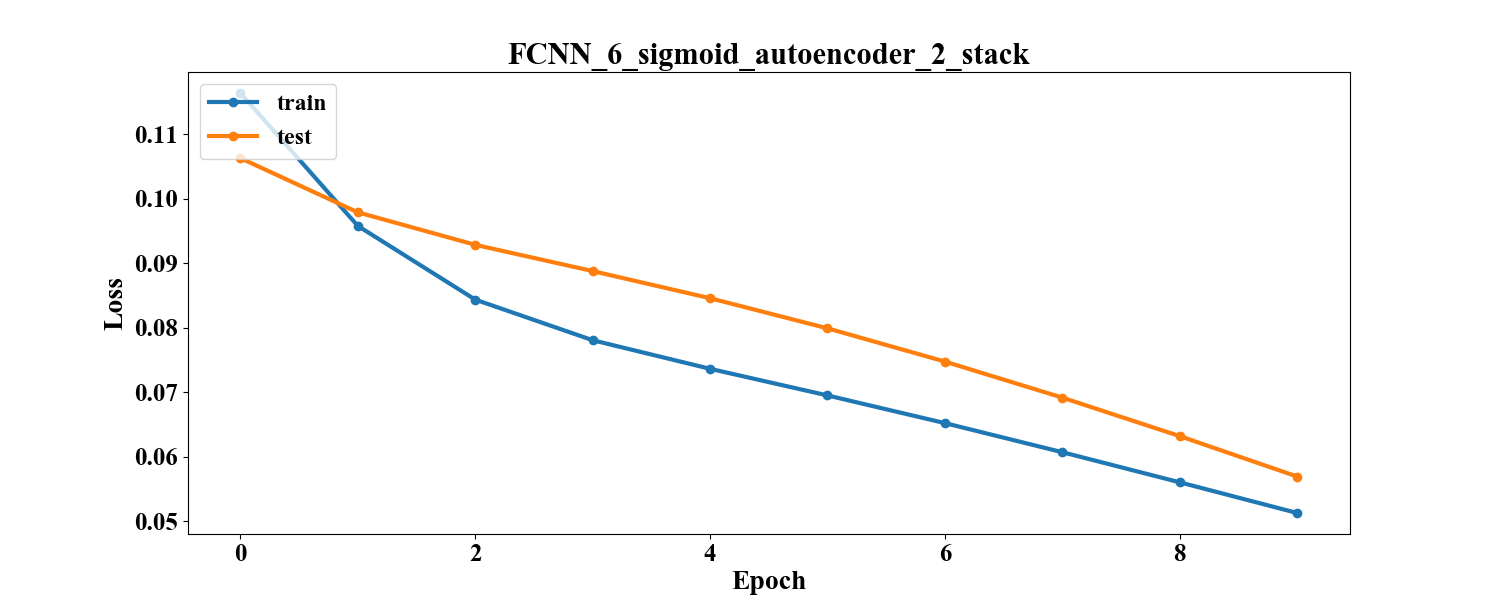
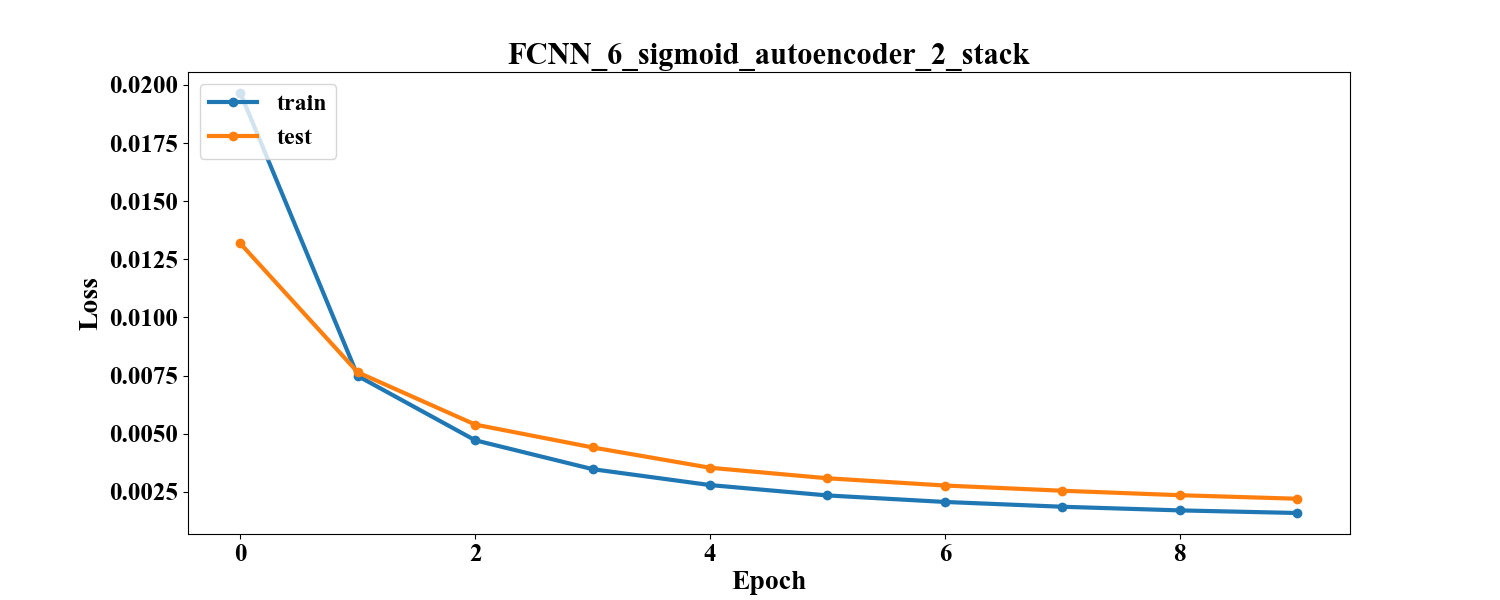
Add lab4 results

diff --git a/lab4/src/notebook.py b/lab4/src/notebook.py
@@ -174,12 +174,12 @@ def main():
     #run_experiment_autoencoder_CNN()
 
 
-    #print('\tFCNN\n')
-    #run_experiment_deep_autoencoder_FCNN()
-    #print('\tFCNN with regularization_parameter\n')
-    #run_experiment_deep_autoencoder_FCNN(regularization_parameter=0.0001)
-    #print('\tCNN\n')
-    #run_experiment_deep_autoencoder_CNN()
+    print('\tFCNN\n')
+    run_experiment_deep_autoencoder_FCNN()
+    print('\tFCNN with regularization_parameter\n')
+    run_experiment_deep_autoencoder_FCNN(regularization_parameter=0.0001)
+    print('\tCNN\n')
+    run_experiment_deep_autoencoder_CNN()
     print('\tFCNN stack autoencoder\n')
     run_experiment_stack_autoencoders_FCNN()
 

diff --git a/lab4/readme.md b/lab4/readme.md
@@ -51,22 +51,22 @@
 | CNN_1_relu                            |    0.8823     |  0.7741   |     0.9941     |   0.0216   |    781.0184    |
 | CNN_10_relu                           |    0.9481     |  0.3136   |     0.999      |   0.0033   |   2071.7088    |
 | FCNN_1_sigmoid                        |    0.8541     |  0.5912   |     0.9611     |   0.1951   |    87.2454     |
-| FCNN_6_sigmoid                        |     0.92      |  0.3807   |      0.96      |   0.1474   |    689.7557    |
+| FCNN_6_sigmoid                        |    0.8545     |  0.5885   |     0.9783     |   0.0777   |    689.7557    |
 | CNN_1_relu_autoencoder                |    0.5702     |  0.0117   |     0.512      |   0.0157   |   1881.0585    |
 | CNN_1_relu_pretraining                |    0.8898     |  0.7241   |     0.9895     |   0.0397   |    783.3383    |
 | FCNN_6_sigmoid_encoder                |    0.8226     |  0.6664   |     0.9759     |   0.0911   |    721.7957    |
-| CNN_10_relu_autoencoder               |    0.4277     |  0.0335   |     0.396      |   0.0289   |   4888.8824    |
-| CNN_10_relu_pretraining               |     0.947     |  0.2862   |     0.9948     |   0.0171   |    2108.957    |
+| CNN_10_relu_autoencoder               |     0.529     |  0.0123   |     0.481      |   0.0162   |   4135.7274    |
+| CNN_10_relu_pretraining               |    0.9481     |  0.2589   |     0.9978     |   0.0068   |   2067.4936    |
 | FCNN_1_sigmoid_autoencoder            |     0.599     |  0.0183   |     0.5801     |   0.0198   |    250.9933    |
 | FCNN_1_sigmoid_pretraining            |    0.8546     |  0.5828   |     0.9611     |   0.1976   |    102.8282    |
-| FCNN_6_sigmoid_autoencoder            |    0.5381     |  0.0234   |     0.5117     |   0.0229   |   1578.1841    |
-| FCNN_6_sigmoid_pretraining            |     0.04      |  3.7913   |      0.2       |   3.1921   |     1.609      |
-| FCNN_6_sigmoid_autoencoder_0.0001     |    0.3365     |  0.0751   |     0.3361     |   0.0533   |   1518.9803    |
-| FCNN_6_sigmoid_pretraining_0.0001     |    0.8496     |  0.5436   |     0.9778     |   0.1029   |    701.6596    |
-| FCNN_6_sigmoid_autoencoder_1_stack    |     0.336     |  0.0464   |     0.3425     |   0.0376   |     2.3737     |
-| FCNN_6_sigmoid_autoencoder_2_stack    |      0.0      |  0.0569   |      0.0       |   0.0465   |     0.7053     |
-| FCNN_6_sigmoid_autoencoder_3_stack    |     0.08      |  0.0316   |      0.05      |   0.0309   |     0.4728     |
-| FCNN_6_sigmoid_pretraining_with_stack |     0.02      |  3.7946   |      0.18      |   3.2597   |     1.6839     |
+| FCNN_6_sigmoid_autoencoder            |    0.5114     |  0.0234   |     0.4855     |   0.023    |   1508.7251    |
+| FCNN_6_sigmoid_pretraining            |     0.842     |  0.6536   |     0.9828     |   0.0709   |    697.6593    |
+| FCNN_6_sigmoid_autoencoder_0.0001     |    0.3367     |  0.0751   |     0.3363     |   0.0533   |   1507.0768    |
+| FCNN_6_sigmoid_pretraining_0.0001     |    0.8419     |  0.5944   |     0.9656     |   0.1477   |    702.888     |
+| FCNN_6_sigmoid_autoencoder_1_stack    |    0.6576     |  0.0137   |     0.6345     |   0.017    |    1246.62     |
+| FCNN_6_sigmoid_autoencoder_2_stack    |    0.6008     |  0.0022   |     0.5904     |   0.0015   |    216.447     |
+| FCNN_6_sigmoid_autoencoder_3_stack    |    0.7311     |  0.0016   |     0.7354     |   0.0012   |    31.2123     |
+| FCNN_6_sigmoid_pretraining_with_stack |    0.8456     |  0.6361   |     0.9759     |   0.0873   |    689.8882    |
 
 [comment]: # (result_table_end)
 
